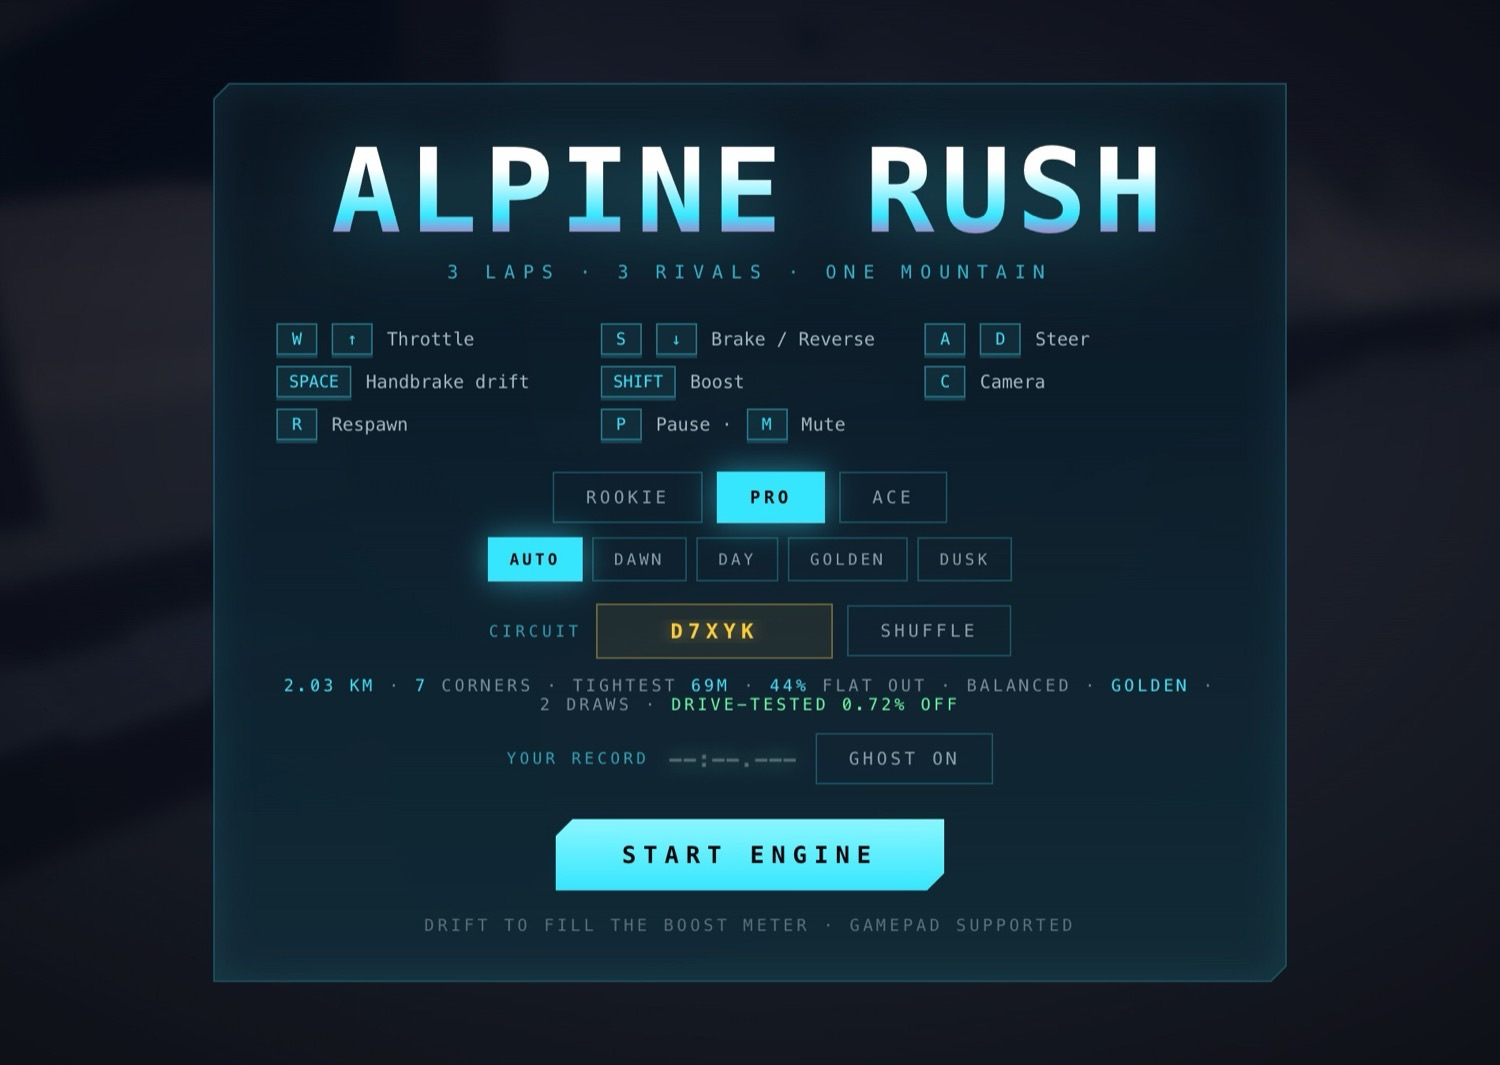
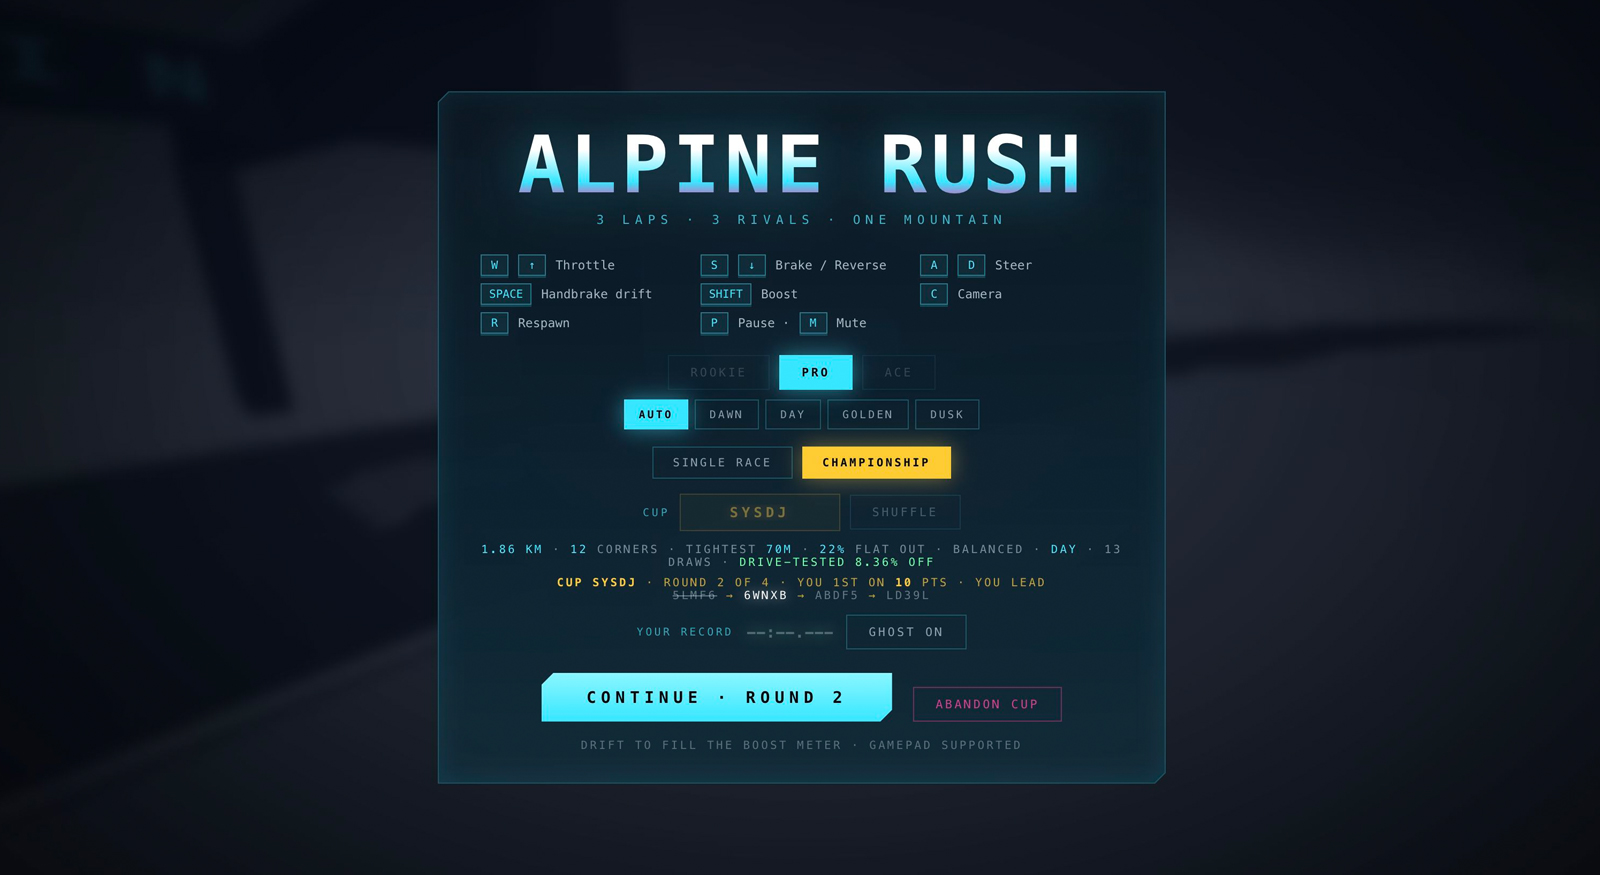
Refresh the title and results screenshots for championship mode
Both at 1600x875: the title mid-cup (SYSDJ, round 2 of 4, locked) and
the round-one card with the standings block. Captions and alt text
updated to describe what is actually pictured.

diff --git a/README.md b/README.md
@@ -16,11 +16,11 @@ or a whole four-round championship: [`?cup=JAKDA`](https://arjunemirchandani.git
 *The whole field covered by 0.3s, mid-drift with the slipstream engaged. Terrain, lighting, cars,
 tyre smoke and every sound are generated at runtime — there is not a single asset file.*
 
-![The pre-race configuration screen showing circuit, difficulty and time-of-day options](docs/screenshots/title.jpg)
+![The title screen mid-championship: cup SYSDJ at round 2 of 4, the four round seeds listed with the first struck through, difficulty locked, and CONTINUE · ROUND 2](docs/screenshots/title.jpg)
 
-*Every circuit is a seed. `D7XYK` is 2.03 km with 7 corners, lit at golden hour and drive-tested at
-0.72% off-track — layout, elevation, mountains, forest and hour all derived from those five
-characters.*
+*Every circuit is a seed, and so is every championship. Cup `SYSDJ` derives its four rounds from
+those five characters; round two, `6WNXB`, is 1.86 km with 12 corners, drive-tested before you ever
+see it. The seed, shuffle and difficulty lock while a cup is running.*
 
 Or run it locally:
 
@@ -197,10 +197,11 @@ ghost, **magenta** where you weren't, brighter the bigger the difference. A stre
 matched the record stays on the map's elevation shading, so colour always means something happened
 there. The same trace, for your final lap, is shown large on the results card:
 
-![The results card with the finishing order beside a lap map tinted green and magenta where the final lap gained and lost time against the record](docs/screenshots/results.jpg)
+![The results card after round 1 of a cup: the finishing order beside a lap map tinted green and magenta where the final lap gained and lost time against the record, then the championship standings with points gained and totals](docs/screenshots/results.jpg)
 
 *Time lost to the record is drawn where it was lost. 0.08 s on one ~12 m segment is full colour;
-smaller deltas blend only partway, so a clean lap reads quiet and a mistake reads loud.*
+smaller deltas blend only partway, so a clean lap reads quiet and a mistake reads loud. In a
+championship the standings follow, with the points this round earned.*
 
 **GHOST ON/OFF** hides the ghost if you'd rather drive without it; the choice is remembered across
 sessions and is independent of the record, which stays either way. **CLEAR** wipes the record and
